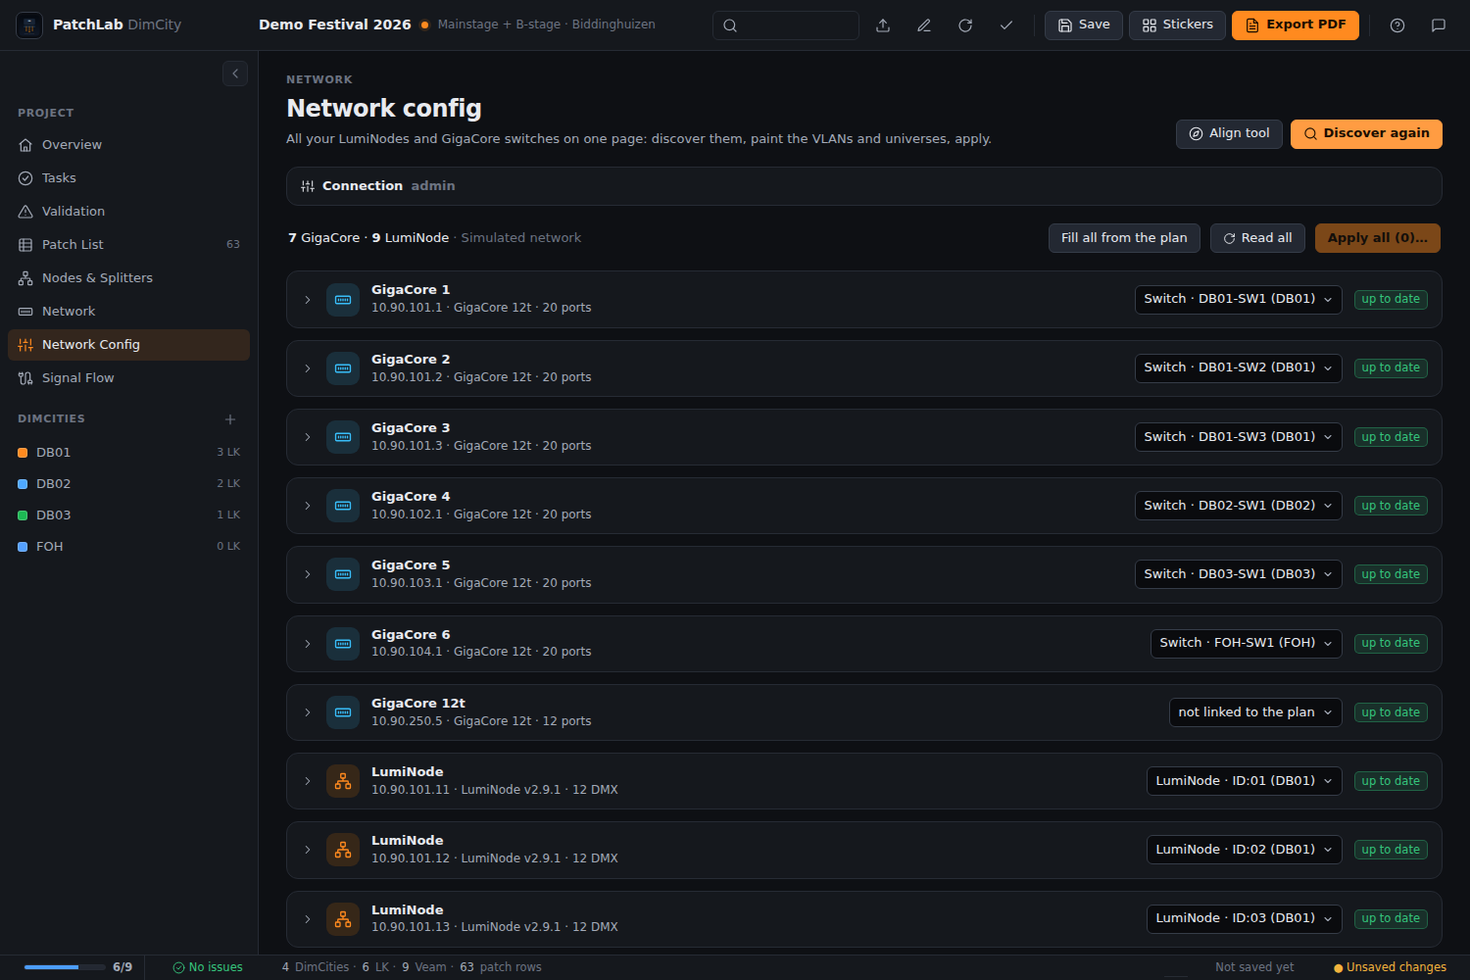
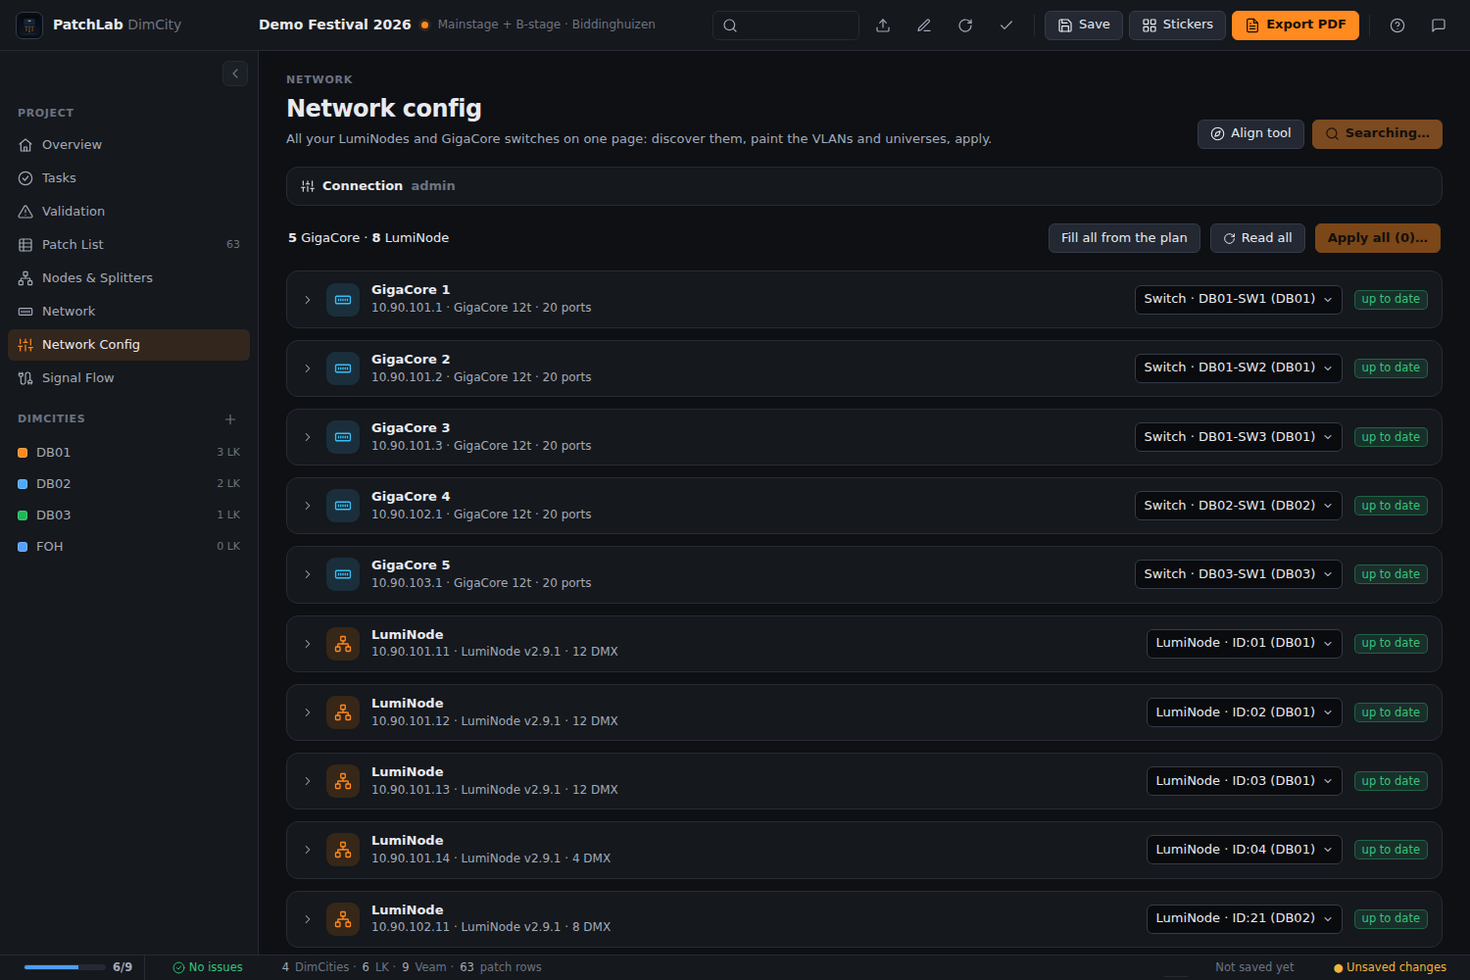
Devices show up one by one while searching; Send applies at once and lists what changed
Claude-Session: https://claude.ai/code/session_011zJcwnePXPnek3P52mJGYA

diff --git a/ui/netconfig.js b/ui/netconfig.js
@@ -2,7 +2,7 @@
 //   · Discover finds them all at once (HTTP: LumiNode / LumiCore and GigaCore generation 2) and links each to a switch or node of the plan.
 //   · A switch folds open into its ports: pick a VLAN (the brush), click or drag over ports and they get that VLAN. Name, PoE and speed per port.
 //   · A LumiNode folds open into its DMX ports: pick a universe, click a port. Name per port.
-//   · Nothing is sent while you paint. "Apply" shows every call first, sends after you confirm, and reads the device back.
+//   · Nothing is sent while you paint. "Apply" sends at once, reads the device back and then lists what was changed.
 // The logic that compares and builds the calls is core/luminex-api.js; outside the desktop app simulated devices answer (core/luminex-sim.js).
 (function(){
   'use strict';
@@ -161,34 +161,42 @@
       if(it){ d.link = it.id; taken.add(it.id); }
     }
   }
+  // Devices appear one by one, the moment they are found; each is read straight away (4 at a time).
+  let readRun = 0; const readQ = [];
+  function queueRead(d){
+    readQ.push(d);
+    const next = async () => { if(readRun >= 4 || !readQ.length) return; readRun++; const x = readQ.shift(); try { if(x.kind !== 'unknown' && !x.cur) await readDev(x); } catch {} readRun--; paint(); next(); };
+    next();
+  }
+  function addFound(f, old){
+    const prev = old?.get(f.ip) || C.dev.get(f.ip);
+    const d = prev && prev.kind === f.kind ? Object.assign(prev, { name:prev.name || f.name, auth:!!f.auth }) : mk(f);
+    const isNew = !C.dev.has(f.ip); C.dev.set(f.ip, d); C.found = [...C.dev.keys()];
+    autoLink(); paint(); if(isNew || !d.cur) queueRead(d);
+  }
   async function discover(){
-    C.busy = true; C.err = ''; C.info = ''; paint();
+    C.busy = true; C.err = ''; C.info = ''; const old = C.dev; C.dev = new Map(); C.found = []; paint();
+    let off = null;
     try {
-      let list;
       if(real()){
         if(!window.app.luminexScan) throw new Error(t('This version of the app cannot scan.', 'Deze versie van de app kan niet scannen.'));
-        const r = await window.app.luminexScan({ ranges:C.ranges, user:C.user, pass:C.pass, https:C.https }); list = r.devices || [];
+        off = window.app.onLuminexDevice?.(f => addFound(f, old));
+        const r = await window.app.luminexScan({ ranges:C.ranges, user:C.user, pass:C.pass, https:C.https });
+        for(const f of (r.devices || [])) if(!C.dev.has(f.ip)) addFound(f, old);
         C.info = `${r.count} ${t('addresses checked', 'adressen gecontroleerd')} · ${r.ranges}`;
       } else {
-        await load(); await new Promise(r => setTimeout(r, 500));
-        list = simNet().map(x => { const info = x.kind === 'gigacore' ? x.dev.state.device : x.dev.state.info; return x.kind === 'gigacore' ? { ip:simIp(x), kind:'gigacore', name:info.name, model:info.model } : { ip:simIp(x), kind:'lumi', name:info.short_name, longName:info.long_name, version:'v2.9.1' }; });
+        await load();
+        for(const x of simNet()){ await new Promise(r => setTimeout(r, 180)); const info = x.kind === 'gigacore' ? x.dev.state.device : x.dev.state.info; addFound(x.kind === 'gigacore' ? { ip:simIp(x), kind:'gigacore', name:info.name, model:info.model } : { ip:simIp(x), kind:'lumi', name:info.short_name, longName:info.long_name, version:'v2.9.1' }, old); }
         C.info = t('Simulated network', 'Gesimuleerd netwerk');
       }
-      const old = C.dev; C.dev = new Map();
-      for(const f of list){ const prev = old.get(f.ip); C.dev.set(f.ip, prev && prev.kind === f.kind ? Object.assign(prev, { name:prev.name || f.name, auth:!!f.auth }) : mk(f)); }
-      C.found = [...C.dev.keys()]; autoLink();
-      C.busy = false; paint();
-      await pool([...C.dev.values()].filter(d => d.kind !== 'unknown' && !d.cur), 4, async d => { await readDev(d); paint(); });
     } catch(x) { C.err = String(x.message || x); }
+    try { off?.(); } catch {}
     C.busy = false; paint();
+    while(readRun > 0 || readQ.length) await new Promise(r => setTimeout(r, 100));
   }
   async function applyDevs(devs){
     const todo = devs.map(d => ({ d, ...opsOf(d) })).filter(x => x.ops.length);
     if(!todo.length) return;
-    const html = todo.map(({ d, ops }) => `<h4 style="margin:10px 0 4px">${esc(d.name || d.model)} <span class="subtle">${esc(d.ip)}</span></h4><ol>${ops.map(o => `<li>${esc(o.text)}<div class="subtle" style="font-size:11px;font-family:monospace">${esc(o.method)} ${esc(o.path)}</div></li>`).join('')}</ol>${ops.some(o => o.kind === 'ip') ? `<p class="su-warn">${t('The IP address changes last; the device then answers on the new address.', 'Het IP-adres verandert als laatste; het apparaat antwoordt daarna op het nieuwe adres.')}</p>` : ''}`).join('');
-    const ok = await App.ui.confirmDialog({ title:`${t('Send', 'Sturen')} ${todo.reduce((n, x) => n + x.ops.length, 0)} ${t('changes to', 'wijzigingen naar')} ${todo.length} ${t('devices?', 'apparaten?')}`, okLabel:t('Send', 'Sturen'), html:true, width:'600px',
-      message:`<div style="max-height:360px;overflow:auto"><p>${real() ? t('This changes the live configuration of these devices. Check that the show is not running on them.', 'Dit verandert de actieve configuratie van deze apparaten. Controleer dat de show er niet op draait.') : t('Simulated devices — nothing real is changed.', 'Gesimuleerde apparaten — er wordt niets echts veranderd.')}</p>${html}</div>` });
-    if(!ok) return;
     let failed = 0;
     for(const { d, ops } of todo){
       d.busy = true; d.err = ''; paint();
@@ -203,7 +211,15 @@
       d.busy = false; paint();
     }
     window.PatchHistory?.label?.(t('Configuration sent to Luminex devices', 'Configuratie naar Luminex-apparaten gestuurd'));
-    App.ui.toast(failed ? `${failed} ${t('failed', 'mislukt')}` : `${todo.length} ${t('devices configured and checked', 'apparaten ingesteld en gecontroleerd')}`, failed ? 'err' : 'ok');
+    resultDialog(todo, failed);
+  }
+  // what was changed, shown after sending (nothing to confirm beforehand; the list is the record)
+  function resultDialog(todo, failed){
+    const n = todo.reduce((k, x) => k + x.ops.length, 0);
+    const body = `<div style="max-height:420px;overflow:auto">${todo.map(({ d, ops }) => `<h4 style="margin:12px 0 4px">${d.err ? I('alert', 14) : I('check', 14)} ${esc(d.name || d.model)} <span class="subtle">${esc(d.ip)}</span> <span class="subtle">${d.err ? t('failed', 'mislukt') : d.verified ? t('sent and checked', 'gestuurd en gecontroleerd') : t('sent', 'gestuurd')}</span></h4>
+        ${d.err ? `<p class="su-warn">${esc(d.err)}</p>` : ''}<ol>${ops.map(o => `<li>${esc(o.text)}</li>`).join('')}</ol>${ops.some(o => o.kind === 'ip') ? `<p class="subtle">${t('The IP address changed; the device now answers on the new address.', 'Het IP-adres is veranderd; het apparaat antwoordt nu op het nieuwe adres.')}</p>` : ''}`).join('')}</div>`;
+    const dlg = App.ui.openDialog({ title:failed ? `${failed} ${t('of', 'van')} ${todo.length} ${t('devices failed', 'apparaten mislukt')}` : `${n} ${t('changes sent to', 'wijzigingen gestuurd naar')} ${todo.length} ${t('devices', 'apparaten')}`, subtitle:real() ? '' : t('Simulated devices — nothing real was changed.', 'Gesimuleerde apparaten — er is niets echts veranderd.'), width:'620px', body, footer:`<button class="primary" data-a="ok">OK</button>` });
+    dlg.footer.querySelector('[data-a=ok]').onclick = () => dlg.close();
   }
 
 

diff --git a/core/manual.js b/core/manual.js
@@ -656,7 +656,7 @@ Every card has a section **All settings**. It lists everything the Luminex API l
 **Send to other devices…** copies your pending changes, or whole sections of this device, to as many devices of the same kind as you tick. Only the differences are prepared; names, descriptions and addresses go along only if you tick that, risky settings too. Check the result per device or under **Apply all**.
 
 ## Apply
-**Apply…** on a card, or **Apply all** at the top, shows every call per device (method and path) before anything is sent. After you confirm they are made one by one; it stops at the first error. Then the device is read again and checked against what you asked. Changing the IP address always comes last. Optionally a switch configuration is saved in a profile slot (Connection). It works on GigaCore generation 2 and LumiNode / LumiCore; generation 1 switches are not covered.
+**Apply…** on a card, or **Apply all** at the top, sends at once, with no extra question. The calls are made one by one per device; it stops at the first error. Then the device is read again and checked against what you asked, and a window lists every change that was made (what was sent, per device). Undo your pending changes first if you do not want them sent. Changing the IP address always comes last. Optionally a switch configuration is saved in a profile slot (Connection). It works on GigaCore generation 2 and LumiNode / LumiCore; generation 1 switches are not covered.
 
 Outside the desktop app simulated devices answer so you can try it out.`,
     nl:`De pagina **Netwerkconfig** (linkermenu, of de pagina Taken) bevat al je LumiNodes en GigaCore-switches op één pagina. Je ontdekt ze, stelt door te klikken de VLAN's van de switchpoorten en de universes van de DMX-poorten in en stuurt het.
@@ -692,7 +692,7 @@ Elke kaart heeft een onderdeel **Alle instellingen**. Daar staat alles wat de Lu
 **Naar andere apparaten sturen…** kopieert je klaargezette wijzigingen, of hele onderdelen van dit apparaat, naar zoveel apparaten van hetzelfde soort als je aanvinkt. Alleen de verschillen worden klaargezet; namen, beschrijvingen en adressen gaan alleen mee als je dat aanvinkt, risicovolle instellingen ook. Controleer het resultaat per apparaat of onder **Alles toepassen**.
 
 ## Toepassen
-**Toepassen…** op een kaart, of **Alles toepassen** bovenaan, toont per apparaat elke aanroep (methode en pad) voordat er iets gestuurd wordt. Na je bevestiging gebeuren ze een voor een; bij de eerste fout stopt het. Daarna wordt het apparaat opnieuw uitgelezen en vergeleken met wat je vroeg. Het IP-adres veranderen gebeurt altijd als laatste. Optioneel wordt een switchconfiguratie in een profielslot bewaard (Verbinding). Het werkt op GigaCore generatie 2 en LumiNode / LumiCore; generatie 1-switches vallen erbuiten.
+**Toepassen…** op een kaart, of **Alles toepassen** bovenaan, stuurt meteen, zonder extra vraag. De aanroepen gebeuren een voor een per apparaat; bij de eerste fout stopt het. Daarna wordt het apparaat opnieuw uitgelezen en vergeleken met wat je vroeg, en een venster toont elke wijziging die is gedaan (wat er per apparaat is gestuurd). Maak eerst je klaargezette wijzigingen ongedaan als je ze niet wilt sturen. Het IP-adres veranderen gebeurt altijd als laatste. Optioneel wordt een switchconfiguratie in een profielslot bewaard (Verbinding). Het werkt op GigaCore generatie 2 en LumiNode / LumiCore; generatie 1-switches vallen erbuiten.
 
 Buiten de desktop-app antwoorden gesimuleerde apparaten zodat je het kunt uitproberen.`
   },
@@ -703,14 +703,14 @@ Buiten de desktop-app antwoorden gesimuleerde apparaten zodat je het kunt uitpro
 
 1. **Find** — searches the network (or the range you type) for every LumiNode and GigaCore.
 2. **Align** — the first device **blinks**: a GigaCore blinks its screen and port lights (the identify call of the switch), a LumiNode its LEDs. You stand at the device, see which one it is and press its place in the plan, for example **DB3-SW1**. The link is made and the next device blinks. The suggestion in orange is the first free place, or the one with the same IP address. **Skip** leaves a device alone, **Undo** takes the last link back.
-3. **Send** — **Fill in from the plan** puts names, VLANs, port names and universes on the devices (optionally also the IP address of the plan; the device then moves to its new address, so do that on a new network). **Send config** lists every call and asks for your OK, sends to all linked devices one by one and reads each back.
+3. **Send** — **Fill in from the plan** puts names, VLANs, port names and universes on the devices (optionally also the IP address of the plan; the device then moves to its new address, so do that on a new network). **Send config** sends at once, with no extra question, to all linked devices one by one, reads each back, and then shows a window with every change that was made.
 
 Not done yet: finding devices by IPv6 / MAC address when a new device is on another IP range than your computer. That needs a test on real devices first.`,
     nl:`De **Uitlijntool** is om snel veel apparaten in te stellen. Open hem via de pagina Taken, via Netwerkconfig (**Uitlijntool**) of via Setup stap 8. Netwerkconfig blijft zoals het was, voor het werken aan één apparaat of poort.
 
 1. **Zoeken** — zoekt in het netwerk (of het bereik dat je typt) naar elke LumiNode en GigaCore.
 2. **Uitlijnen** — het eerste apparaat **knippert**: een GigaCore laat scherm en poortlampjes knipperen (de identify-aanroep van de switch), een LumiNode zijn LED’s. Jij staat bij het apparaat, ziet welke het is en drukt op zijn plek in het plan, bijvoorbeeld **DB3-SW1**. De koppeling is gemaakt en het volgende apparaat knippert. Het voorstel in oranje is de eerste vrije plek, of die met hetzelfde IP-adres. **Overslaan** laat een apparaat met rust, **Ongedaan** neemt de laatste koppeling terug.
-3. **Sturen** — **Invullen uit het plan** zet namen, VLAN’s, poortnamen en universes op de apparaten (eventueel ook het IP-adres uit het plan; het apparaat verhuist dan naar zijn nieuwe adres, doe dat dus op een nieuw netwerk). **Config sturen** toont elke aanroep en vraagt om jouw OK, stuurt één voor één naar alle gekoppelde apparaten en leest ze terug.
+3. **Sturen** — **Invullen uit het plan** zet namen, VLAN’s, poortnamen en universes op de apparaten (eventueel ook het IP-adres uit het plan; het apparaat verhuist dan naar zijn nieuwe adres, doe dat dus op een nieuw netwerk). **Config sturen** stuurt meteen, zonder extra vraag, één voor één naar alle gekoppelde apparaten, leest ze terug en toont daarna een venster met elke wijziging die is gedaan.
 
 Nog niet gedaan: apparaten vinden via IPv6 / MAC-adres als een nieuw apparaat op een ander IP-bereik zit dan je computer. Dat moet eerst op echte apparaten getest worden.`
   },

diff --git a/core/luminex-http.js b/core/luminex-http.js
@@ -51,7 +51,7 @@ export function expandRanges(text, max = 1024){
 // Find LumiNodes / LumiCores and GigaCores. Step 1: which addresses have port 80 open (fast, many at once).
 // Step 2: ask those — GET /api/software/version with a "current" field is a LumiNode / LumiCore, GET /api/device with a model is a GigaCore.
 // A device that asks for a login answers 401: listed as "unknown", login needed. Things with port 80 open that are neither (routers, printers) are left out.
-export async function luminexScan({ ips = [], user, pass, https: useTls, timeoutMs = 1500, tcpMs = 600, concurrency = 400 } = {}){
+export async function luminexScan({ ips = [], user, pass, https: useTls, timeoutMs = 1500, tcpMs = 600, concurrency = 400, onDevice = null } = {}){
   const net = await import('node:net');
   const list = (ips || []).filter(x => /^\d{1,3}(\.\d{1,3}){3}$/.test(x)).slice(0, 65536), open = [];
   let i = 0;
@@ -60,9 +60,8 @@ export async function luminexScan({ ips = [], user, pass, https: useTls, timeout
     const end = ok => { if(done) return; done = true; sock.destroy(); res(ok); };
     sock.setTimeout(tcpMs); sock.on('connect', () => end(true)); sock.on('timeout', () => end(false)); sock.on('error', () => end(false));
   });
-  const w1 = async () => { while(i < list.length){ const ip = list[i++]; if(await probePort(ip)) open.push(ip); } };
-  await Promise.all(Array.from({ length: Math.min(concurrency, list.length || 1) }, w1));
-  const found = []; let k = 0;
+  const found = [];
+  const add = d => { found.push(d); try { onDevice?.(d); } catch {} };
   const one = async ip => {
     const base = { ip, user, pass, https: useTls, timeoutMs };
     let auth = false;
@@ -70,17 +69,18 @@ export async function luminexScan({ ips = [], user, pass, https: useTls, timeout
       const v = await luminexHttp({ ...base, path: '/api/software/version' });
       if(v && typeof v === 'object' && v.current != null){
         let info = {}; try { info = (await luminexHttp({ ...base, path: '/api/deviceinfo' })) || {}; } catch {}
-        return found.push({ ip, kind: 'lumi', name: info.short_name || '', longName: info.long_name || '', model: '', version: String(v.current), auth: false });
+        return add({ ip, kind: 'lumi', name: info.short_name || '', longName: info.long_name || '', model: '', version: String(v.current), auth: false });
       }
     } catch(e) { if(e.status === 401) auth = true; }
     try {
       const d = await luminexHttp({ ...base, path: '/api/device' });
-      if(d && typeof d === 'object' && (d.model != null || d.name != null)) return found.push({ ip, kind: 'gigacore', name: d.name || '', longName: d.description || '', model: d.model || '', mac: d.mac_address || '', version: '', auth: false });
+      if(d && typeof d === 'object' && (d.model != null || d.name != null)) return add({ ip, kind: 'gigacore', name: d.name || '', longName: d.description || '', model: d.model || '', mac: d.mac_address || '', version: '', auth: false });
     } catch(e) { if(e.status === 401) auth = true; }
-    if(auth) found.push({ ip, kind: 'unknown', name: '', longName: '', model: '', version: '', auth: true });
+    if(auth) add({ ip, kind: 'unknown', name: '', longName: '', model: '', version: '', auth: true });
   };
-  const w2 = async () => { while(k < open.length){ const ip = open[k++]; try { await one(ip); } catch {} } };
-  await Promise.all(Array.from({ length: Math.min(32, open.length || 1) }, w2));
+  // a device is identified the moment its port answers (no waiting for the whole sweep), so it can be shown at once
+  const w = async () => { while(i < list.length){ const ip = list[i++]; if(await probePort(ip)){ open.push(ip); try { await one(ip); } catch {} } } };
+  await Promise.all(Array.from({ length: Math.min(concurrency, list.length || 1) }, w));
   const n = a => a.split('.').reduce((x, o) => x * 256 + +o, 0);
   return found.sort((a, b) => n(a.ip) - n(b.ip));
 }

diff --git a/ui/setup.js b/ui/setup.js
@@ -188,7 +188,7 @@
       const stp = status(id, f);
       return `<div class="su-big">${id === 'align' ? `<b>${linked}</b> / ${planned.length} ${t('places of the plan have their device', 'plekken van het plan hebben hun apparaat')}` : `<b>${stp.detail}</b>`}</div>
         <div class="su-row"><button class="primary" data-cmd-run="align" data-arg="${id === 'send' ? 'send' : devs.length ? 'align' : 'find'}">${I('compass', 15)}${t('Open the Align tool', 'Open de Uitlijntool')}</button><button data-cmd-run="netDevices">${I('sliders', 14)}${t('Network config (one device or port)', 'Netwerkconfig (één apparaat of poort)')}</button></div>
-        <div class="hint" style="margin-top:12px">${I('info', 13)} ${id === 'align' ? t('The Align tool blinks one device at a time. You need to be at the network with the devices switched on and connected to this computer.', 'De Uitlijntool laat steeds één apparaat knipperen. Je moet dan op het netwerk zitten, met de apparaten aan en verbonden met deze computer.') : t('Nothing is sent without a list of every change and your OK. Changing an IP address makes the device move; do that on a new network.', 'Er wordt niets gestuurd zonder een lijst van elke wijziging en jouw OK. Een ander IP-adres laat het apparaat verhuizen; doe dat op een nieuw netwerk.')}</div>`;
+        <div class="hint" style="margin-top:12px">${I('info', 13)} ${id === 'align' ? t('The Align tool blinks one device at a time. You need to be at the network with the devices switched on and connected to this computer.', 'De Uitlijntool laat steeds één apparaat knipperen. Je moet dan op het netwerk zitten, met de apparaten aan en verbonden met deze computer.') : t('Sending goes at once, and a window then lists every change that was made. Changing an IP address makes the device move; do that on a new network.', 'Sturen gaat meteen en een venster toont daarna elke wijziging die is gedaan. Een ander IP-adres laat het apparaat verhuizen; doe dat op een nieuw netwerk.')}</div>`;
     }
     if(id === 'output') return `<div class="su-row"><button class="primary" data-cmd-run="exportPdf" data-done="1">${I('file', 14)}${t('Export PDF report', 'PDF-rapport exporteren')}</button><button data-cmd-run="stickers" data-done="1">${I('grid', 14)}${t('Print stickers', 'Stickers printen')}</button><button data-cmd-run="exchange" data-done="1">${I('refresh', 14)}${t('Exchange with Lightwright / Vectorworks', 'Uitwisselen met Lightwright / Vectorworks')}</button></div>
         <div class="hint" style="margin-top:12px">${I('info', 13)} ${t('The PDF report holds the racks, the patch, the network plan and the signal flow, per DimCity or all together. Stickers and QR codes have their own settings.', 'Het PDF-rapport bevat de racks, de patch, het netwerkplan en de signaalstroom, per DimCity of allemaal samen. Stickers en QR-codes hebben hun eigen instellingen.')}</div>`;

diff --git a/ui/align.js b/ui/align.js
@@ -46,8 +46,9 @@
   // ---- actions ----
   async function find(){
     A.busy = true; A.err = ''; paint();
+    const iv = setInterval(paint, 300);                 // devices appear one by one while the search runs
     try { await NC().discover(); } catch(x) { A.err = String(x.message || x); }
-    A.busy = false; A.phase = 'find'; paint();
+    clearInterval(iv); A.busy = false; A.phase = 'find'; paint();
   }
   async function link(d, it){
     A.history.push({ ip:d.ip, prev:d.link }); d.link = it.id; d.blinking = false;
@@ -108,7 +109,7 @@
       <label class="nc-chk"><input type="checkbox" id="alIp" ${A.withIp ? 'checked' : ''}> ${t('Also set the IP addresses of the plan (the device moves to its new address; do this when the network is new)', 'Ook de IP-adressen uit het plan instellen (het apparaat gaat naar zijn nieuwe adres; doe dit bij een nieuw netwerk)')}</label>
       <div class="su-row"><button id="alFill" ${A.busy ? 'disabled' : ''}>${t('1 · Fill in from the plan', '1 · Invullen uit het plan')}</button><button class="primary" id="alSend" ${A.filled ? '' : 'disabled'}>${I('upload', 14)}${t('2 · Send config', '2 · Config sturen')}</button></div>
       <table class="data-table"><thead><tr><th>${t('Place in the plan', 'Plek in het plan')}</th><th>${t('Device', 'Apparaat')}</th><th>IP</th><th>${t('To send', 'Te sturen')}</th><th></th></tr></thead><tbody>${rows}</tbody></table>
-      <div class="hint" style="margin-top:10px">${I('info', 13)} ${t('“Fill in” puts names, VLANs, ports and universes of the plan on the devices; nothing is sent yet. “Send config” shows every call first and asks you to confirm.', '“Invullen” zet namen, VLAN’s, poorten en universes uit het plan op de apparaten; er wordt nog niets gestuurd. “Config sturen” toont eerst elke aanroep en vraagt om bevestiging.')}</div>`;
+      <div class="hint" style="margin-top:10px">${I('info', 13)} ${t('“Fill in” puts names, VLANs, ports and universes of the plan on the devices; nothing is sent yet. “Send config” sends at once and then shows in a window what was changed.', '“Invullen” zet namen, VLAN’s, poorten en universes uit het plan op de apparaten; er wordt nog niets gestuurd. “Config sturen” stuurt meteen en toont daarna in een venster wat er is aangepast.')}</div>`;
   }
   function paint(){
     if(!R) return;

diff --git a/main.js b/main.js
@@ -334,8 +334,11 @@ ipcMain.handle('netProbe', async (_evt, { ip, ports } = {}) => { const io = awai
 ipcMain.handle('luminexScan', async (_evt, req = {}) => {
   const lh = await import(new URL('./core/luminex-http.js', import.meta.url).href);
   const ranges = String(req.ranges || '').trim() || (await lh.localRanges()).join(' ');
-  const ips = lh.expandRanges(ranges, 65536);
-  return { ranges, count: ips.length, devices: await lh.luminexScan({ ips, user: req.user, pass: req.pass, https: !!req.https }) };
+  let ips = lh.expandRanges(ranges, 65536);
+  // the /24 around this computer first: the devices on the cable in front of you show up within a second
+  try { const near = new Set((await lh.localRanges()).map(r => r.split('/')[0].split('.').slice(0, 3).join('.'))); ips = [...ips.filter(x => near.has(x.split('.').slice(0, 3).join('.'))), ...ips.filter(x => !near.has(x.split('.').slice(0, 3).join('.')))]; } catch {}
+  // every device is sent to the window as soon as it is found (luminexScanDevice); the end result is the sorted list
+  return { ranges, count: ips.length, devices: await lh.luminexScan({ ips, user: req.user, pass: req.pass, https: !!req.https, onDevice: d => { try { _evt.sender.send('luminexScanDevice', d); } catch {} } }) };
 });
 ipcMain.handle('luminexHttp', async (_evt, req) => (await import(new URL('./core/luminex-http.js', import.meta.url).href)).luminexHttp(req));
 
